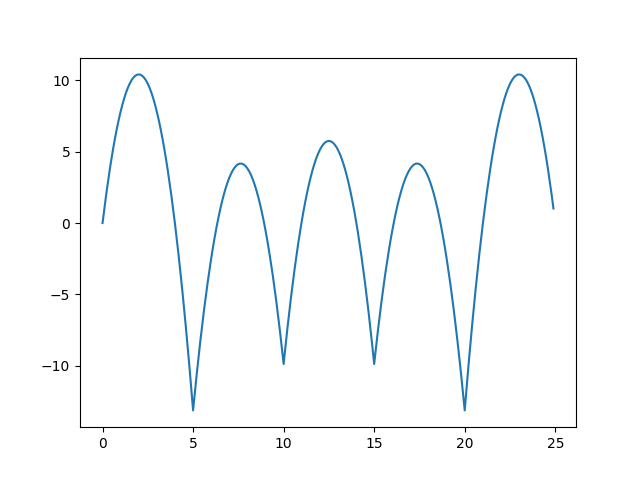
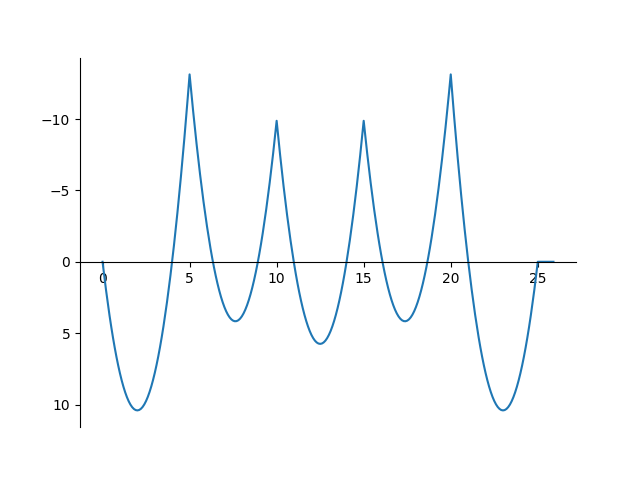
Change diagram design

diff --git a/templates/calculated.html b/templates/calculated.html
@@ -105,9 +105,9 @@
             </tbody>            
         </table>    
     <h4>Moment Diagram</h3>
-    <img src="{{moments}}" width="1000" height="250" class="center">
+    <img src="{{moments}}" width="1000" height="400" class="center">
     <h4>Shear Force Diagram</h3>
-    <img src="{{shearForces}}" width="1000" height="250" class="center"><br>
+    <img src="{{shearForces}}" width="1000" height="400" class="center"><br>
     <p>
     <a class="btn btn-light" href="\">New Calculation</a>
     <a class="btn btn-light" href="\static\results.csv">Download Results as CSV</a>

diff --git a/app.py b/app.py
@@ -65,7 +65,7 @@ def calculation():
         Vbr_factor = float(momentfactors[n][10])     
         Vcl_factor = float(momentfactors[n][11])  
         Vcr_factor = float(momentfactors[n][12])            
-        M1 = 0
+        M1 = 0.0
         M2 = 0.0
         M3 = 0.0
         Mb = 0.0
@@ -80,7 +80,7 @@ def calculation():
 
         if n == 1:
             Vbl = (q * l)/2     # Shear Force at both supports in kN
-            M1 = (q * l**2)/8   # Bending - Moment in middle of field in kNm
+            M1 = float((q * l**2)/8 )  # Bending - Moment in middle of field in kNm
         else:
             M1 = round(m1_factor * q * l**2,2)
             M2 = round(m2_factor * q * l**2,2)
@@ -115,19 +115,19 @@ def calculation():
         #list of shear forces
         shearForces = []
         if n == 1:
-            shearForces = [A, -A]
+            shearForces = [0, A, -A, 0]
             outlineImageLink = ".\static\images\schemeimage_einfeldträger.png"
         elif n == 2:
-            shearForces = [A, Vbl, -Vbl, -A] # two values at one x-location!!! 
+            shearForces = [0, A, Vbl, -Vbl, -A, 0] # two values at one x-location!!! 
             outlineImageLink = ".\static\images\schemeimage_zweifeldträger.png"
         elif n == 3:
-            shearForces = [A, Vbl, Vbr, Vbl, Vbr, -A]
+            shearForces = [0, A, Vbl, Vbr, Vbl, Vbr, -A, 0]
             outlineImageLink = ".\static\images\schemeimage_dreifeldträger.png"
         elif n == 4:
-            shearForces = [A, Vbl, Vbr, Vcl, Vcr, Vbl, Vbr, -A]
+            shearForces = [0, A, Vbl, Vbr, Vcl, Vcr, Vbl, Vbr, -A, 0]
             outlineImageLink = ".\static\images\schemeimage_vierfeldträger.png"
         elif n == 5:
-            shearForces = [A, Vbl, Vbr, Vcl, Vcr, Vcl, Vcr, Vbl, Vbr, -A]
+            shearForces = [0, A, Vbl, Vbr, Vcl, Vcr, Vcl, Vcr, Vbl, Vbr, -A, 0]
             outlineImageLink = ".\static\images\schemeimage_fünffeldträger.png"
                         
         #List for x-locations
@@ -145,9 +145,16 @@ def calculation():
         for i in range(n + 1):
             x_loc = i * l
             x_locationV.append(x_loc)
-            if i != 0 and i != n:
-                x_locationV.append(x_loc)
+            x_locationV.append(x_loc)
+            #if i != 0 and i != n:
+                #x_locationV.append(x_loc)
          #Plot graph V:
+        ax = plt.gca()
+        ax.invert_yaxis()
+        ax.spines['right'].set_color('none')
+        ax.spines['top'].set_color('none')
+        ax.spines['bottom'].set_position(('data', 0))
+        plt.xticks = []
         PlotShearForces(x_locationV, shearForces)
         plt.close()
         #print(x_locationV)
@@ -157,15 +164,19 @@ def calculation():
         #Plot graph My:
         #PlotMoments(x, moments)
 
-        x = np.arange(0, n * l, 0.1)
+        x = np.arange(0, (n * l) + 1, 0.1)
         
         #for x in xs: 
            # M = (2 * mb_factor * q - 4 * m1_factor * q) * x**2 + (2 * m1_factor * q * l - l/2 * (2 * mb_factor * q - 4 * m1_factor * q)) * x
            # moments.append(M)
         #f1 = (2 * mb_factor * q - 4 * m1_factor * q) * x**2 + (2 * m1_factor * q * l - l/2 * (2 * mb_factor * q - 4 * m1_factor * q)) * x
         #f2 = x
-        y = np.piecewise(x,[x <= l, (x > l) & (x <= 2 * l), (x > 2 * l) & (x <= 3 * l), (x > 3 * l) & (x <= 4 * l)], [lambda x: f1(x, mb_factor, m1_factor, q, l), lambda x: f2(x,mb_factor, m1_factor, m2_factor, mc_factor, q, l, n), lambda x: f3(x, mb_factor, m1_factor, m2_factor, m3_factor, mc_factor, q, l, n), lambda x: f4(x, mb_factor, m1_factor, m2_factor, mc_factor, q, l, n), lambda x: f5(x, mb_factor, m1_factor, q, l, n)])
-
+        y = np.piecewise(x,[x <= l, (x > l) & (x <= 2 * l), (x > 2 * l) & (x <= 3 * l), (x > 3 * l) & (x <= 4 * l), (x > 4 * l) & (x <= 5 * l)], [lambda x: f1(x, mb_factor, m1_factor, q, l, n), lambda x: f2(x,mb_factor, m1_factor, m2_factor, mc_factor, q, l, n), lambda x: f3(x, mb_factor, m1_factor, m2_factor, m3_factor, mc_factor, q, l, n), lambda x: f4(x, mb_factor, m1_factor, m2_factor, mc_factor, q, l, n), lambda x: f5(x, mb_factor, m1_factor, q, l, n)])
+        ax = plt.gca()
+        ax.invert_yaxis()
+        ax.spines['right'].set_color('none')
+        ax.spines['top'].set_color('none')
+        ax.spines['bottom'].set_position(('data', 0))
         plt.plot(x, y)
         plt.savefig(".\static\images\moments.png")
         plt.close()       
@@ -198,9 +209,11 @@ def PlotShearForces(x_locationV, shearForces):
     plt.plot(x_locationV, shearForces)
     return plt.savefig(".\static\images\shearForces.png")
     
-def f1(x, mb_factor, m1_factor, q, l):
-    return (2 * mb_factor * q - 4 * m1_factor * q) * x**2 + (2 * m1_factor * q * l - l/2 * (2 * mb_factor * q - 4 * m1_factor * q)) * x
-    #return (2 * mb_factor * q - 4 * m1_factor * q) * x**2 + (-3 * mb_factor * q * l + 4 * m1_factor * q * l) * x + mb_factor * q * l**2
+def f1(x, mb_factor, m1_factor, q, l, n):
+    if n == 1:
+        return q * (l**2) / 8
+    else:
+        return (2 * mb_factor * q - 4 * m1_factor * q) * x**2 + (2 * m1_factor * q * l - l/2 * (2 * mb_factor * q - 4 * m1_factor * q)) * x
 
 def f2(x, mb_factor, m1_factor, m2_factor, mc_factor, q, l, n):
     x = x - l
